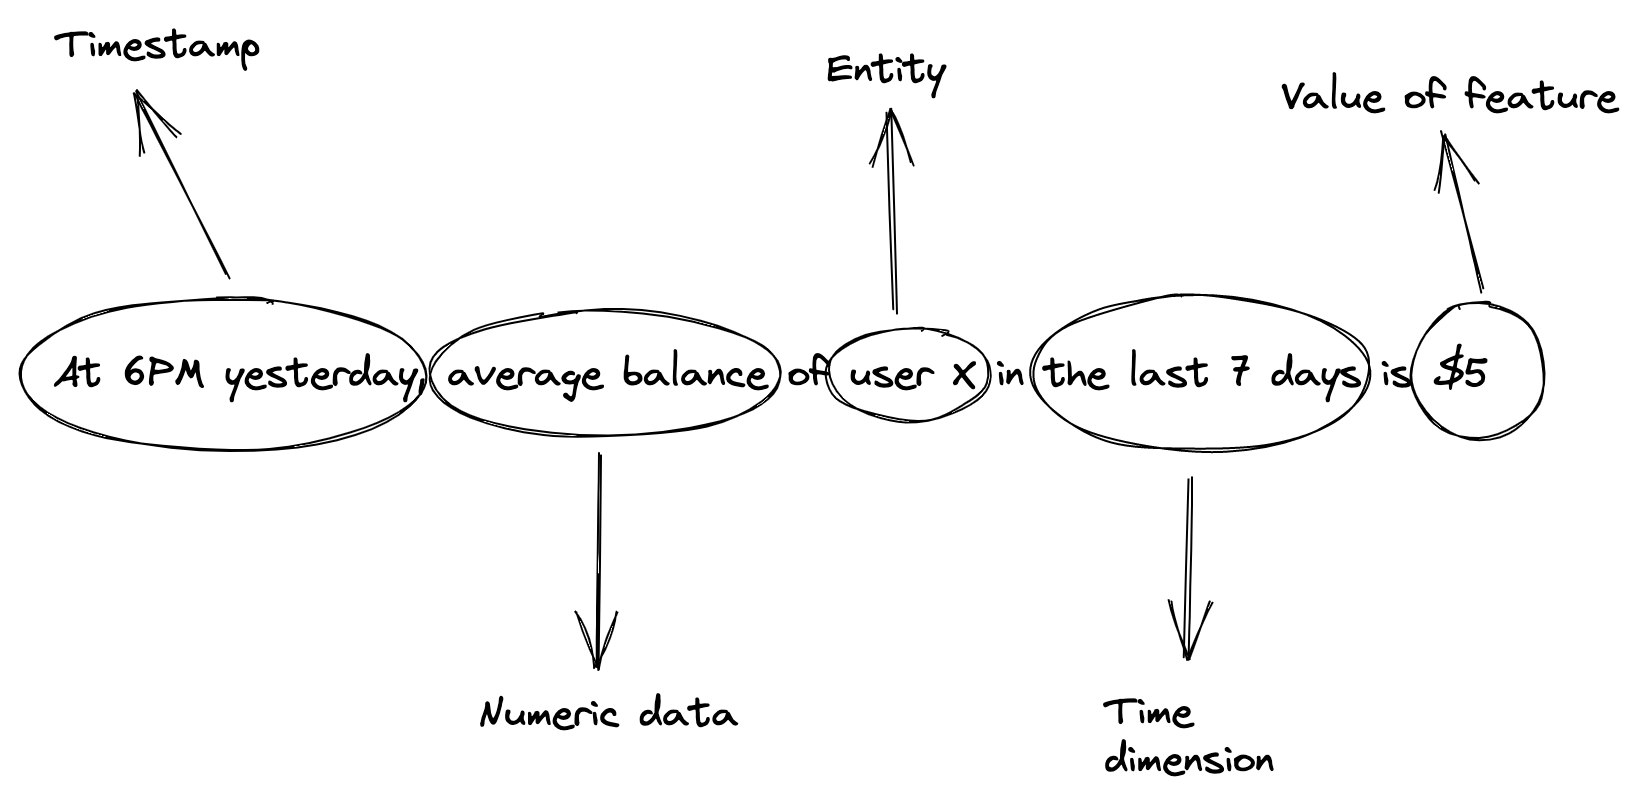
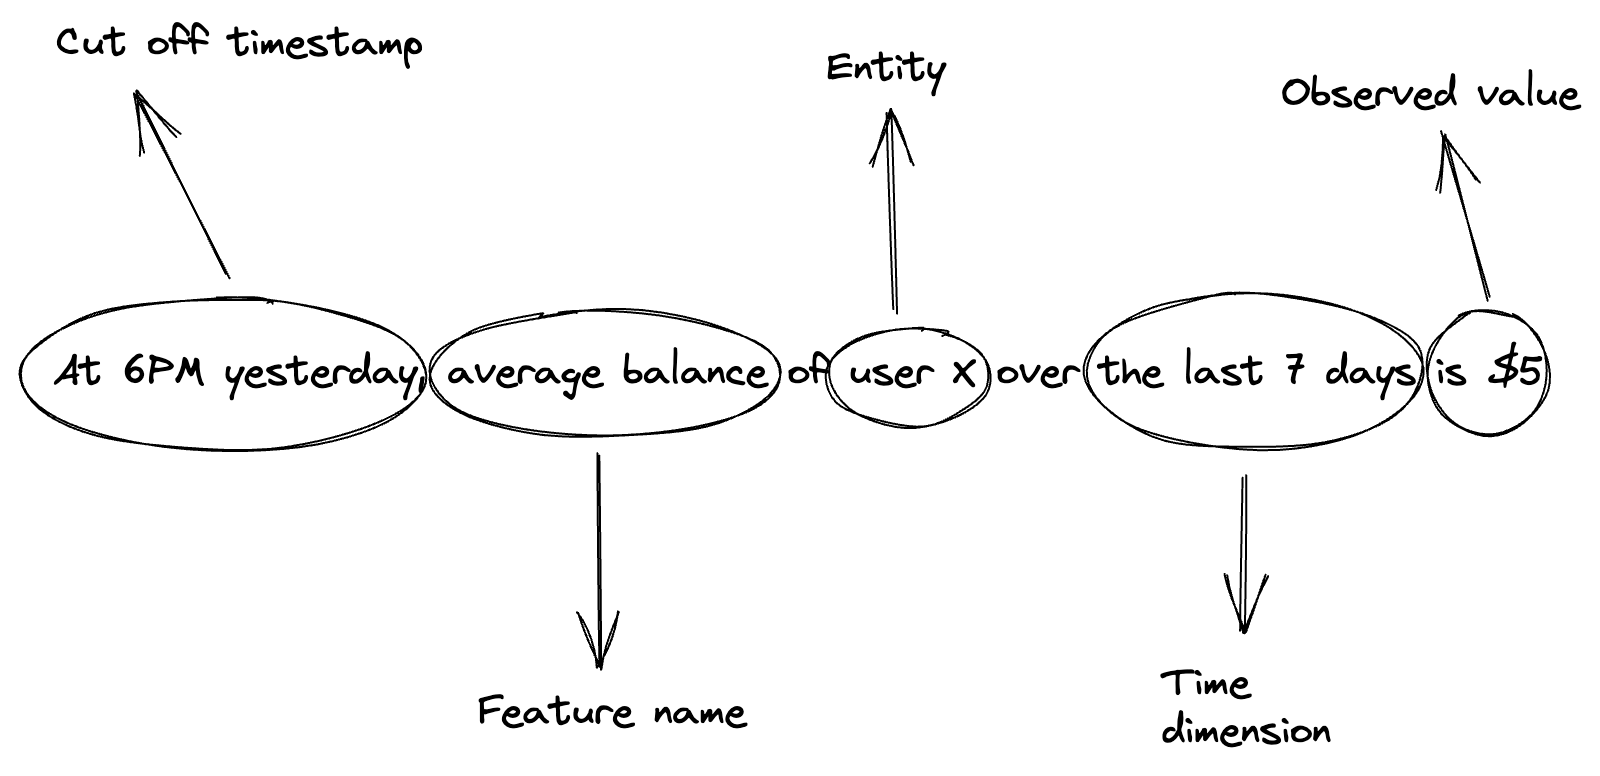
update: consolidate feature definition section

diff --git a/_posts/2023-01-15-beyond-feature-store_p1.md b/_posts/2023-01-15-beyond-feature-store_p1.md
@@ -29,7 +29,16 @@ A feature is a data point with these following criteria:
 
 ![Features Definition](/assets/img/feature.png){: .mx-auto.d-block :}
 
-Firstly, about numeric data, it simply is the information which is aggregated, transformed, encoded from raw data based on business or insight rules. The information is captured at a specific time in the past as a snapshot to let us know exactly what happened back then. Finally, to answer what thing all these stuff belongs to, `entity` is where you should look at. Optionally, time dimension is also needed to fulfill the characteristic of target entity. For example: 
+`entity` is obviously the first thing we should look at, this is a primary object we're working on to collect data from. The `cut off timestamp` determines the latest timestamp at which the data of an entity is considered valid for feature calculation. Any data beyond this specific timestamp is excluded before performing feature calculations.
+
+<p align = "center">
+<img src = "https://featuretools.alteryx.com/en/stable/_images/retail_ct.png">
+</p>
+<p align = "center">
+Cut Off Timestamp illustration (Source: Featuretools documentation)
+</p>
+
+`Observed value` is calculated from the extracted data with `Data points`, usually combined with `Aggregation methods` to produce a single value as a summarization of what happened back then. Optionally, time dimension is also needed to fulfill the characteristic of target entity. For example: 
 
 ![Example](/assets/img/feat_example.png){: .mx-auto.d-block :}
 
